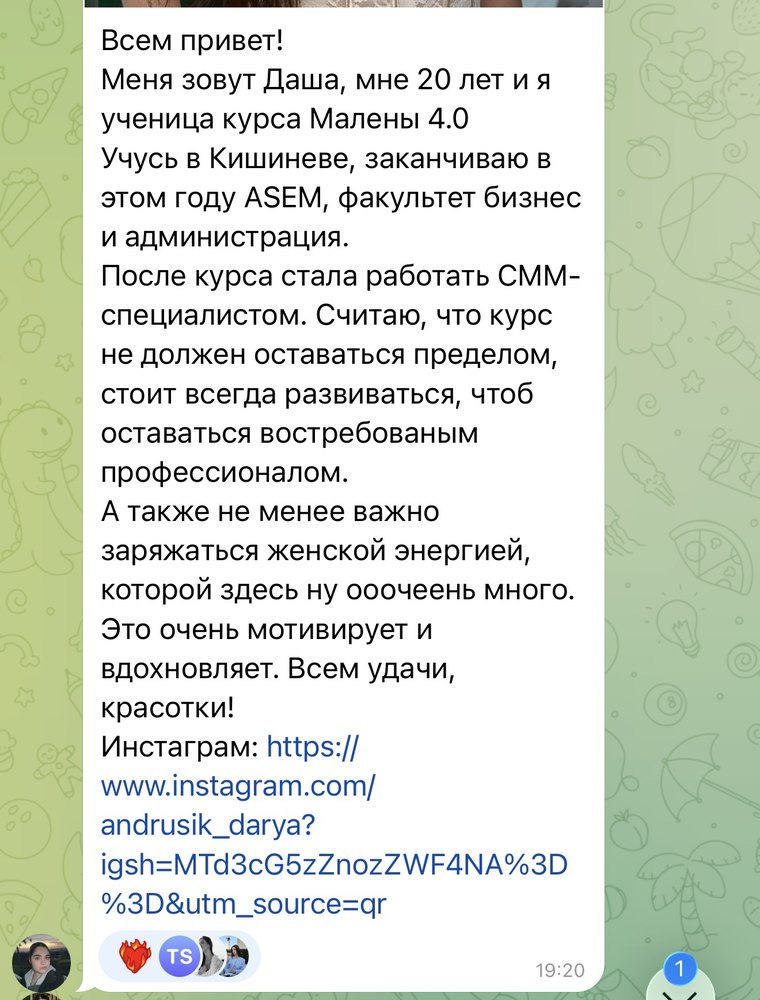
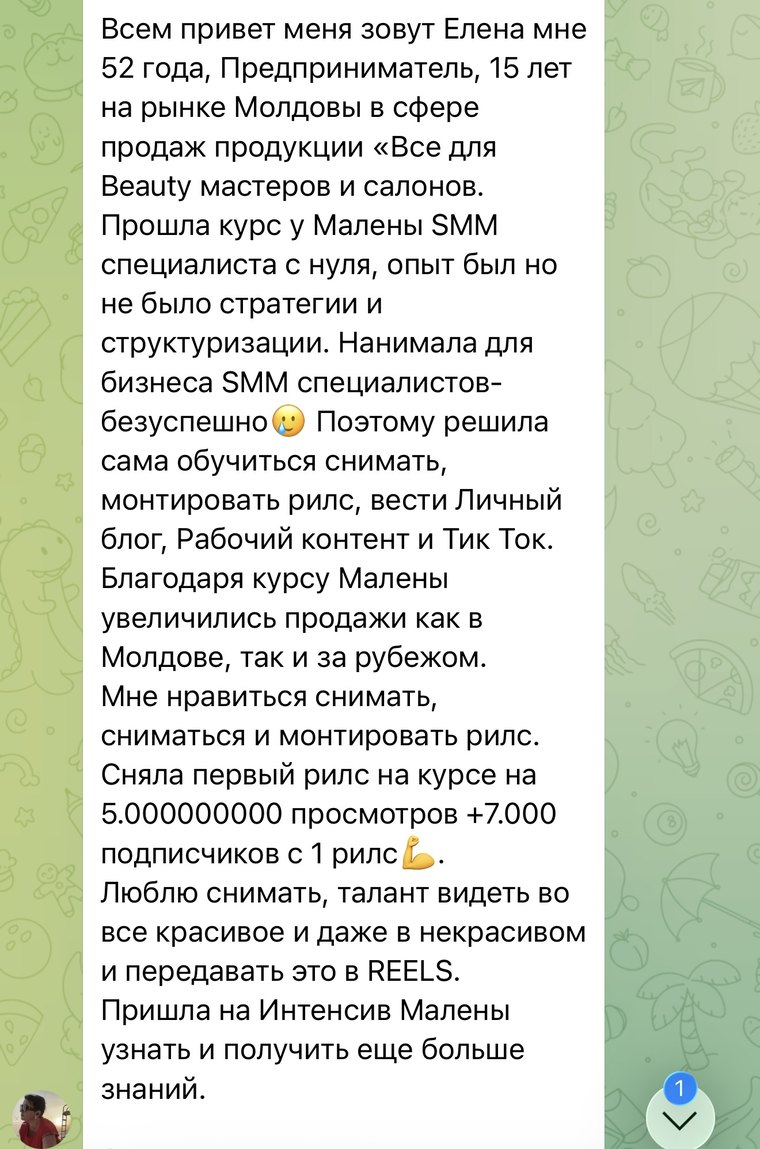
Клуб: шапка выезжает после героя, кейсы в три ровные колонки, фото Кристины, десятый скриншот

Changed region(s): [[0.0, 0.0, 0.8171, 1.0], [0.8474, 0.93, 0.9382, 1.0]]

diff --git a/prodvizhenie-review.html b/prodvizhenie-review.html
@@ -104,8 +104,15 @@ h3{font-family:var(--disp);font-size:23px;line-height:1.18;font-weight:400}
 .pill s{font-family:var(--disp);font-size:30px;letter-spacing:0;text-decoration:none;display:block}
 
 /* ═══════ ШАПКА ═══════ */
-nav{position:sticky;top:0;z-index:50;background:var(--navy);color:#EFEAE0;
-  display:flex;align-items:center;justify-content:space-between;gap:16px;padding:0 22px;height:56px}
+/* Шапка не занимает первый экран: она выезжает сверху только после героя. */
+nav{position:fixed;top:0;left:0;right:0;z-index:50;background:var(--navy);color:#EFEAE0;
+  display:flex;align-items:center;justify-content:space-between;gap:16px;padding:0 22px;height:56px;
+  transform:translateY(-100%);transition:transform .34s cubic-bezier(.22,.61,.36,1);
+  box-shadow:0 6px 20px rgba(23,19,19,.16)}
+nav.on{transform:none}
+/* Чтобы выехавшая шапка не накрывала заголовок раздела при переходе по якорю. */
+[id]{scroll-margin-top:70px}
+@media(prefers-reduced-motion:reduce){nav{transition:none}}
 nav .lg{font-family:var(--pos);font-weight:600;font-size:15px;letter-spacing:.22em;text-transform:uppercase}
 nav .lg i{font-style:normal;color:var(--sun)}
 nav .lk{display:flex;gap:26px}
@@ -115,6 +122,8 @@ nav a:hover{color:var(--sun)}
 nav .go{background:var(--sun);color:var(--ink);padding:8px 20px;border-radius:999px;font-weight:600}
 nav .go:hover{color:var(--ink);background:var(--sun2)}
 @media(max-width:900px){nav .lk{display:none}}
+/* На телефоне после героя работает нижняя панель, верхняя не нужна. */
+@media(max-width:640px){nav{display:none}}
 
 /* ═══════ ГЕРОЙ ═══════ */
 .hero{background:var(--paper2);padding:44px 0 0;position:relative;overflow:hidden}
@@ -288,10 +297,12 @@ nav .go:hover{color:var(--ink);background:var(--sun2)}
 .gr p{font-size:14.5px;color:var(--ink2);line-height:1.45}
 
 /* ═══════ КЕЙСЫ ═══════ */
-.res{display:grid;grid-template-columns:repeat(4,1fr);gap:22px;margin-top:46px}
-.rc{background:var(--card);padding:13px 13px 26px;box-shadow:0 3px 14px rgba(23,19,19,.08);
+/* Шесть карточек ложатся в три колонки без остатка.
+   align-items:start не даёт коротким карточкам растягиваться на всю строку. */
+.res{display:grid;grid-template-columns:repeat(3,1fr);gap:24px;margin-top:46px;align-items:start}
+.rc{background:var(--card);padding:13px 13px 24px;box-shadow:0 3px 14px rgba(23,19,19,.08);
   transition:transform .3s cubic-bezier(.22,.61,.36,1),box-shadow .3s}
-.rc:nth-child(2n){transform:rotate(.8deg)}.rc:nth-child(3n){transform:rotate(-.8deg)}
+.rc:nth-child(2n){transform:rotate(.5deg)}.rc:nth-child(3n){transform:rotate(-.5deg)}
 .rc:hover{transform:rotate(0) translateY(-8px);box-shadow:0 24px 44px rgba(23,19,19,.15)}
 .rc img{width:100%;aspect-ratio:1/1;object-fit:cover;margin-bottom:17px}
 .rc .nm{font-family:var(--pos);font-weight:600;font-size:17px;text-transform:uppercase;letter-spacing:.06em;padding:0 10px}
@@ -471,15 +482,12 @@ footer a{color:rgba(242,234,217,.72)}
 .shot:hover{transform:rotate(0) translateY(-4px);box-shadow:0 16px 34px rgba(23,19,19,.16)}
 .shot img{display:block;width:100%;height:auto}
 .shots-n{text-align:center;font-size:13.5px;color:var(--ink3);margin-top:2px}
-.res .ini{display:flex;align-items:center;justify-content:center;
-  background:var(--wine);color:var(--paper2);font-family:var(--disp);font-size:40px}
-/* Главный кейс: занимает две колонки и держит на себе взгляд. */
-.res .rc.big{grid-column:span 2;border:2px solid var(--sun)}
-.res .rc.big p{font-size:17px}
+.res .ini{aspect-ratio:1/1;display:flex;align-items:center;justify-content:center;
+  background:var(--wine);color:var(--paper2);font-family:var(--disp);font-size:40px;margin-bottom:17px}
 @media(max-width:640px){
   .shot{width:220px}
   .shots{gap:12px}
-  .res .rc.big{grid-column:span 1}
+  .shots-h{margin:40px 0 14px}
 }
 </style>
 </head>
@@ -719,10 +727,10 @@ footer a{color:rgba(242,234,217,.72)}
       <p class="lede">Это ученицы курса Малены и их собственные слова. Клуб стартует 1 сентября, и первые истории участниц появятся здесь же.</p>
     </div>
     <div class="res">
-      <div class="rc rv d1 big"><img src="images/club/otzyvy/face-toma.jpg" alt="Тома" loading="lazy" decoding="async"><div class="nm">Тома</div><div class="mt">просмотры</div><p>Ролик клиентки набрал 1,4 млн просмотров. Работает стабильно: есть постоянный проект и разовые съёмки</p></div>
+      <div class="rc rv d1"><img src="images/club/otzyvy/face-toma.jpg" alt="Тома" loading="lazy" decoding="async"><div class="nm">Тома</div><div class="mt">просмотры</div><p>Ролик клиентки набрал 1,4 млн просмотров. Работает стабильно: есть постоянный проект и разовые съёмки</p></div>
       <div class="rc rv d2"><img src="images/club/otzyvy/face-anastasiya.jpg" alt="Анастасия" loading="lazy" decoding="async"><div class="nm">Анастасия</div><div class="mt">клиенты</div><p>Плюс 1200 подписчиков за неделю на аккаунте клиента</p></div>
       <div class="rc rv d3"><img src="images/club/otzyvy/face-olga.jpg" alt="Ольга" loading="lazy" decoding="async"><div class="nm">Ольга</div><div class="mt">рост</div><p>С 6400 подписчиков до 12,4 тысяч</p></div>
-      <div class="rc rv d4"><div class="ini">К</div><div class="nm">Кристина</div><div class="mt">бренды</div><p>Стала бренд-амбассадором детских магазинов</p></div>
+      <div class="rc rv d4"><img src="images/club/otzyvy/face-kristina.jpg" alt="Кристина" loading="lazy" decoding="async"><div class="nm">Кристина</div><div class="mt">бренды</div><p>Стала бренд-амбассадором детских магазинов</p></div>
       <div class="rc rv d4"><img src="images/club/otzyvy/face-loredana.jpg" alt="Лоредана" loading="lazy" decoding="async"><div class="nm">Лоредана</div><div class="mt">доход</div><p>Начала вести четырёх клиентов и крупный проект из Турции, собирает свою команду</p></div>
       <div class="rc rv d4"><img src="images/club/otzyvy/face-yuliya.jpg" alt="Юлия" loading="lazy" decoding="async"><div class="nm">Юлия</div><div class="mt">смелость</div><p>Преодолела страх съёмки видео и за время обучения развила два аккаунта</p></div>
     </div>
@@ -737,6 +745,7 @@ footer a{color:rgba(242,234,217,.72)}
       <a class="shot" role="listitem" href="images/club/otzyvy/shot-07.jpg" target="_blank" rel="noopener"><img src="images/club/otzyvy/shot-07.jpg" alt="Отзыв в Telegram" loading="lazy" decoding="async"></a>
       <a class="shot" role="listitem" href="images/club/otzyvy/shot-08.jpg" target="_blank" rel="noopener"><img src="images/club/otzyvy/shot-08.jpg" alt="Отзыв в Telegram" loading="lazy" decoding="async"></a>
       <a class="shot" role="listitem" href="images/club/otzyvy/shot-09.jpg" target="_blank" rel="noopener"><img src="images/club/otzyvy/shot-09.jpg" alt="Отзыв в Telegram" loading="lazy" decoding="async"></a>
+      <a class="shot" role="listitem" href="images/club/otzyvy/shot-10.jpg" target="_blank" rel="noopener"><img src="images/club/otzyvy/shot-10.jpg" alt="Отзыв в Telegram" loading="lazy" decoding="async"></a>
     </div>
     <div class="shots-n">Листайте вбок. Нажмите, чтобы открыть крупно</div>
   </div>
@@ -866,8 +875,13 @@ footer a{color:rgba(242,234,217,.72)}
 (function(){
   var io=new IntersectionObserver(function(es){es.forEach(function(e){if(e.isIntersecting){e.target.classList.add('in');io.unobserve(e.target)}})},{threshold:.1,rootMargin:'0px 0px -6% 0px'});
   document.querySelectorAll('.rv').forEach(function(el){io.observe(el)});
-  var st=document.getElementById('sticky'),h=document.querySelector('.hero');
-  new IntersectionObserver(function(es){st.classList.toggle('on',!es[0].isIntersecting)},{threshold:0}).observe(h);
+  // Пока герой на экране, обе панели спрятаны: первый экран остаётся чистым.
+  var st=document.getElementById('sticky'),nv=document.querySelector('nav'),h=document.querySelector('.hero');
+  new IntersectionObserver(function(es){
+    var past=!es[0].isIntersecting;
+    st.classList.toggle('on',past);
+    if(nv)nv.classList.toggle('on',past);
+  },{threshold:0}).observe(h);
 
   var bl=[].slice.call(document.querySelectorAll('.bleed:not(.big) b'));
   function px(){

diff --git a/prodvizhenie.html b/prodvizhenie.html
@@ -102,8 +102,15 @@ h3{font-family:var(--disp);font-size:23px;line-height:1.18;font-weight:400}
 .pill s{font-family:var(--disp);font-size:30px;letter-spacing:0;text-decoration:none;display:block}
 
 /* ═══════ ШАПКА ═══════ */
-nav{position:sticky;top:0;z-index:50;background:var(--navy);color:#EFEAE0;
-  display:flex;align-items:center;justify-content:space-between;gap:16px;padding:0 22px;height:56px}
+/* Шапка не занимает первый экран: она выезжает сверху только после героя. */
+nav{position:fixed;top:0;left:0;right:0;z-index:50;background:var(--navy);color:#EFEAE0;
+  display:flex;align-items:center;justify-content:space-between;gap:16px;padding:0 22px;height:56px;
+  transform:translateY(-100%);transition:transform .34s cubic-bezier(.22,.61,.36,1);
+  box-shadow:0 6px 20px rgba(23,19,19,.16)}
+nav.on{transform:none}
+/* Чтобы выехавшая шапка не накрывала заголовок раздела при переходе по якорю. */
+[id]{scroll-margin-top:70px}
+@media(prefers-reduced-motion:reduce){nav{transition:none}}
 nav .lg{font-family:var(--pos);font-weight:600;font-size:15px;letter-spacing:.22em;text-transform:uppercase}
 nav .lg i{font-style:normal;color:var(--sun)}
 nav .lk{display:flex;gap:26px}
@@ -113,6 +120,8 @@ nav a:hover{color:var(--sun)}
 nav .go{background:var(--sun);color:var(--ink);padding:8px 20px;border-radius:999px;font-weight:600}
 nav .go:hover{color:var(--ink);background:var(--sun2)}
 @media(max-width:900px){nav .lk{display:none}}
+/* На телефоне после героя работает нижняя панель, верхняя не нужна. */
+@media(max-width:640px){nav{display:none}}
 
 /* ═══════ ГЕРОЙ ═══════ */
 .hero{background:var(--paper2);padding:44px 0 0;position:relative;overflow:hidden}
@@ -286,10 +295,12 @@ nav .go:hover{color:var(--ink);background:var(--sun2)}
 .gr p{font-size:14.5px;color:var(--ink2);line-height:1.45}
 
 /* ═══════ КЕЙСЫ ═══════ */
-.res{display:grid;grid-template-columns:repeat(4,1fr);gap:22px;margin-top:46px}
-.rc{background:var(--card);padding:13px 13px 26px;box-shadow:0 3px 14px rgba(23,19,19,.08);
+/* Шесть карточек ложатся в три колонки без остатка.
+   align-items:start не даёт коротким карточкам растягиваться на всю строку. */
+.res{display:grid;grid-template-columns:repeat(3,1fr);gap:24px;margin-top:46px;align-items:start}
+.rc{background:var(--card);padding:13px 13px 24px;box-shadow:0 3px 14px rgba(23,19,19,.08);
   transition:transform .3s cubic-bezier(.22,.61,.36,1),box-shadow .3s}
-.rc:nth-child(2n){transform:rotate(.8deg)}.rc:nth-child(3n){transform:rotate(-.8deg)}
+.rc:nth-child(2n){transform:rotate(.5deg)}.rc:nth-child(3n){transform:rotate(-.5deg)}
 .rc:hover{transform:rotate(0) translateY(-8px);box-shadow:0 24px 44px rgba(23,19,19,.15)}
 .rc img{width:100%;aspect-ratio:1/1;object-fit:cover;margin-bottom:17px}
 .rc .nm{font-family:var(--pos);font-weight:600;font-size:17px;text-transform:uppercase;letter-spacing:.06em;padding:0 10px}
@@ -469,15 +480,12 @@ footer a{color:rgba(242,234,217,.72)}
 .shot:hover{transform:rotate(0) translateY(-4px);box-shadow:0 16px 34px rgba(23,19,19,.16)}
 .shot img{display:block;width:100%;height:auto}
 .shots-n{text-align:center;font-size:13.5px;color:var(--ink3);margin-top:2px}
-.res .ini{display:flex;align-items:center;justify-content:center;
-  background:var(--wine);color:var(--paper2);font-family:var(--disp);font-size:40px}
-/* Главный кейс: занимает две колонки и держит на себе взгляд. */
-.res .rc.big{grid-column:span 2;border:2px solid var(--sun)}
-.res .rc.big p{font-size:17px}
+.res .ini{aspect-ratio:1/1;display:flex;align-items:center;justify-content:center;
+  background:var(--wine);color:var(--paper2);font-family:var(--disp);font-size:40px;margin-bottom:17px}
 @media(max-width:640px){
   .shot{width:220px}
   .shots{gap:12px}
-  .res .rc.big{grid-column:span 1}
+  .shots-h{margin:40px 0 14px}
 }
 </style>
 </head>
@@ -715,10 +723,10 @@ footer a{color:rgba(242,234,217,.72)}
       <p class="lede">Это ученицы курса Малены и их собственные слова. Клуб стартует 1 сентября, и первые истории участниц появятся здесь же.</p>
     </div>
     <div class="res">
-      <div class="rc rv d1 big"><img src="images/club/otzyvy/face-toma.jpg" alt="Тома" loading="lazy" decoding="async"><div class="nm">Тома</div><div class="mt">просмотры</div><p>Ролик клиентки набрал 1,4 млн просмотров. Работает стабильно: есть постоянный проект и разовые съёмки</p></div>
+      <div class="rc rv d1"><img src="images/club/otzyvy/face-toma.jpg" alt="Тома" loading="lazy" decoding="async"><div class="nm">Тома</div><div class="mt">просмотры</div><p>Ролик клиентки набрал 1,4 млн просмотров. Работает стабильно: есть постоянный проект и разовые съёмки</p></div>
       <div class="rc rv d2"><img src="images/club/otzyvy/face-anastasiya.jpg" alt="Анастасия" loading="lazy" decoding="async"><div class="nm">Анастасия</div><div class="mt">клиенты</div><p>Плюс 1200 подписчиков за неделю на аккаунте клиента</p></div>
       <div class="rc rv d3"><img src="images/club/otzyvy/face-olga.jpg" alt="Ольга" loading="lazy" decoding="async"><div class="nm">Ольга</div><div class="mt">рост</div><p>С 6400 подписчиков до 12,4 тысяч</p></div>
-      <div class="rc rv d4"><div class="ini">К</div><div class="nm">Кристина</div><div class="mt">бренды</div><p>Стала бренд-амбассадором детских магазинов</p></div>
+      <div class="rc rv d4"><img src="images/club/otzyvy/face-kristina.jpg" alt="Кристина" loading="lazy" decoding="async"><div class="nm">Кристина</div><div class="mt">бренды</div><p>Стала бренд-амбассадором детских магазинов</p></div>
       <div class="rc rv d4"><img src="images/club/otzyvy/face-loredana.jpg" alt="Лоредана" loading="lazy" decoding="async"><div class="nm">Лоредана</div><div class="mt">доход</div><p>Начала вести четырёх клиентов и крупный проект из Турции, собирает свою команду</p></div>
       <div class="rc rv d4"><img src="images/club/otzyvy/face-yuliya.jpg" alt="Юлия" loading="lazy" decoding="async"><div class="nm">Юлия</div><div class="mt">смелость</div><p>Преодолела страх съёмки видео и за время обучения развила два аккаунта</p></div>
     </div>
@@ -733,6 +741,7 @@ footer a{color:rgba(242,234,217,.72)}
       <a class="shot" role="listitem" href="images/club/otzyvy/shot-07.jpg" target="_blank" rel="noopener"><img src="images/club/otzyvy/shot-07.jpg" alt="Отзыв в Telegram" loading="lazy" decoding="async"></a>
       <a class="shot" role="listitem" href="images/club/otzyvy/shot-08.jpg" target="_blank" rel="noopener"><img src="images/club/otzyvy/shot-08.jpg" alt="Отзыв в Telegram" loading="lazy" decoding="async"></a>
       <a class="shot" role="listitem" href="images/club/otzyvy/shot-09.jpg" target="_blank" rel="noopener"><img src="images/club/otzyvy/shot-09.jpg" alt="Отзыв в Telegram" loading="lazy" decoding="async"></a>
+      <a class="shot" role="listitem" href="images/club/otzyvy/shot-10.jpg" target="_blank" rel="noopener"><img src="images/club/otzyvy/shot-10.jpg" alt="Отзыв в Telegram" loading="lazy" decoding="async"></a>
     </div>
     <div class="shots-n">Листайте вбок. Нажмите, чтобы открыть крупно</div>
   </div>
@@ -862,8 +871,13 @@ footer a{color:rgba(242,234,217,.72)}
 (function(){
   var io=new IntersectionObserver(function(es){es.forEach(function(e){if(e.isIntersecting){e.target.classList.add('in');io.unobserve(e.target)}})},{threshold:.1,rootMargin:'0px 0px -6% 0px'});
   document.querySelectorAll('.rv').forEach(function(el){io.observe(el)});
-  var st=document.getElementById('sticky'),h=document.querySelector('.hero');
-  new IntersectionObserver(function(es){st.classList.toggle('on',!es[0].isIntersecting)},{threshold:0}).observe(h);
+  // Пока герой на экране, обе панели спрятаны: первый экран остаётся чистым.
+  var st=document.getElementById('sticky'),nv=document.querySelector('nav'),h=document.querySelector('.hero');
+  new IntersectionObserver(function(es){
+    var past=!es[0].isIntersecting;
+    st.classList.toggle('on',past);
+    if(nv)nv.classList.toggle('on',past);
+  },{threshold:0}).observe(h);
 
   var bl=[].slice.call(document.querySelectorAll('.bleed:not(.big) b'));
   function px(){

diff --git a/build-otzyvy.py b/build-otzyvy.py
@@ -140,8 +140,9 @@ def build_html(cards, shots):
     if cards:
         parts.append('    <div class="res">')
         for i, c in enumerate(cards, 1):
-            # Первая строка таблицы это главный кейс: карточка шире остальных.
-            d = f" d{min(i, 4)}" + (" big" if i == 1 else "")
+            # Все карточки одного размера: шесть штук ровно ложатся в три колонки.
+            # Главный кейс просто стоит первым, выделять его шириной не нужно.
+            d = f" d{min(i, 4)}"
             img = (f'<img src="images/club/otzyvy/{c["file"]}" alt="{e(c["name"])}" '
                    f'loading="lazy" decoding="async">') if c.get("file") else \
                   f'<div class="ini">{e(c["name"][:1].upper())}</div>'
@@ -185,15 +186,12 @@ CSS = """
 .shot:hover{transform:rotate(0) translateY(-4px);box-shadow:0 16px 34px rgba(23,19,19,.16)}
 .shot img{display:block;width:100%;height:auto}
 .shots-n{text-align:center;font-size:13.5px;color:var(--ink3);margin-top:2px}
-.res .ini{display:flex;align-items:center;justify-content:center;
-  background:var(--wine);color:var(--paper2);font-family:var(--disp);font-size:40px}
-/* Главный кейс: занимает две колонки и держит на себе взгляд. */
-.res .rc.big{grid-column:span 2;border:2px solid var(--sun)}
-.res .rc.big p{font-size:17px}
+.res .ini{aspect-ratio:1/1;display:flex;align-items:center;justify-content:center;
+  background:var(--wine);color:var(--paper2);font-family:var(--disp);font-size:40px;margin-bottom:17px}
 @media(max-width:640px){
   .shot{width:220px}
   .shots{gap:12px}
-  .res .rc.big{grid-column:span 1}
+  .shots-h{margin:40px 0 14px}
 }
 """
 
